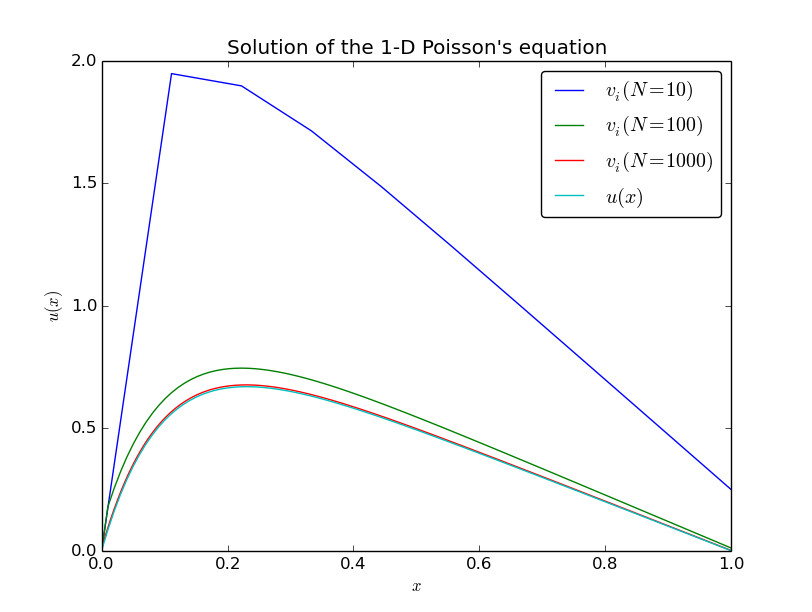
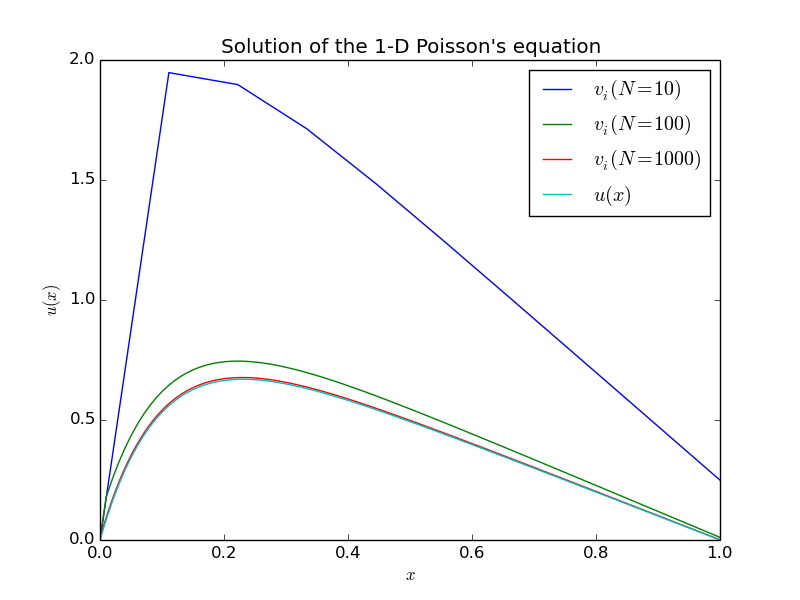
Use matplotlib for plotting, instead of scitools.

diff --git a/postAnalytic.py b/postAnalytic.py
@@ -1,9 +1,12 @@
 #! /usr/bin/python
 from subprocess import call
-from scitools.std import *
-
+from numpy import *
+import matplotlib.pyplot as plt
 call(["make"])  # compile cpp program
 
+fig = plt.figure()
+ax = fig.gca()
+ax.hold('on')
 for N in [10, 100, 1000]:  # loop over the values of N we want to test
 
     call(["./main.x", "%d" % N])  # compute and write data
@@ -20,13 +23,15 @@ for N in [10, 100, 1000]:  # loop over the values of N we want to test
 
     # now plot the computed data
     x = linspace(0, 1, N)
-    plot(x, v, legend="$v_i (N=%d)$" % N, hold='on')
+    ax.plot(x, v, label="$v_i (N=%d)$" % N)
 
 # add closed-form solution to plot for reference
 x_exact = linspace(0, 1, 101)
 u_exact = x_exact * (exp(-10) - 1) - exp(-10*x_exact) + 1
-plot(x_exact, u_exact, legend="$u(x)$",
-     xlabel="$x$", ylabel="$u(x)$",
-     title="Solution of the 1-D Poisson's equation")
-savefig("fig/b.png")
-raw_input()
+ax.plot(x_exact, u_exact, label="$u(x)$")
+ax.set_xlabel("$x$")
+ax.set_ylabel("$u(x)$")
+ax.legend()
+ax.set_title("Solution of the 1-D Poisson's equation")
+plt.savefig("fig/b.png")
+plt.show()
